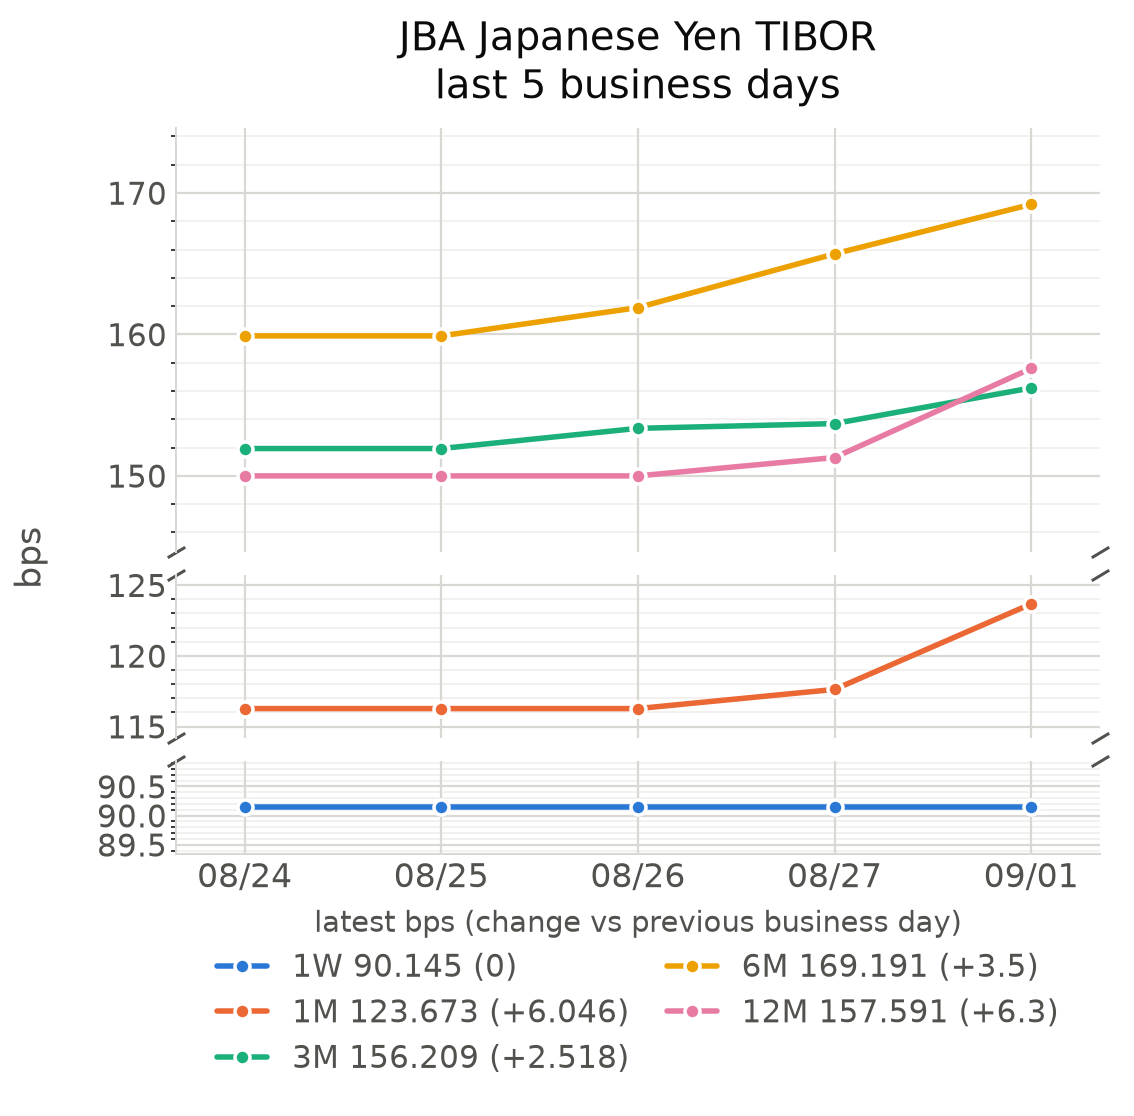
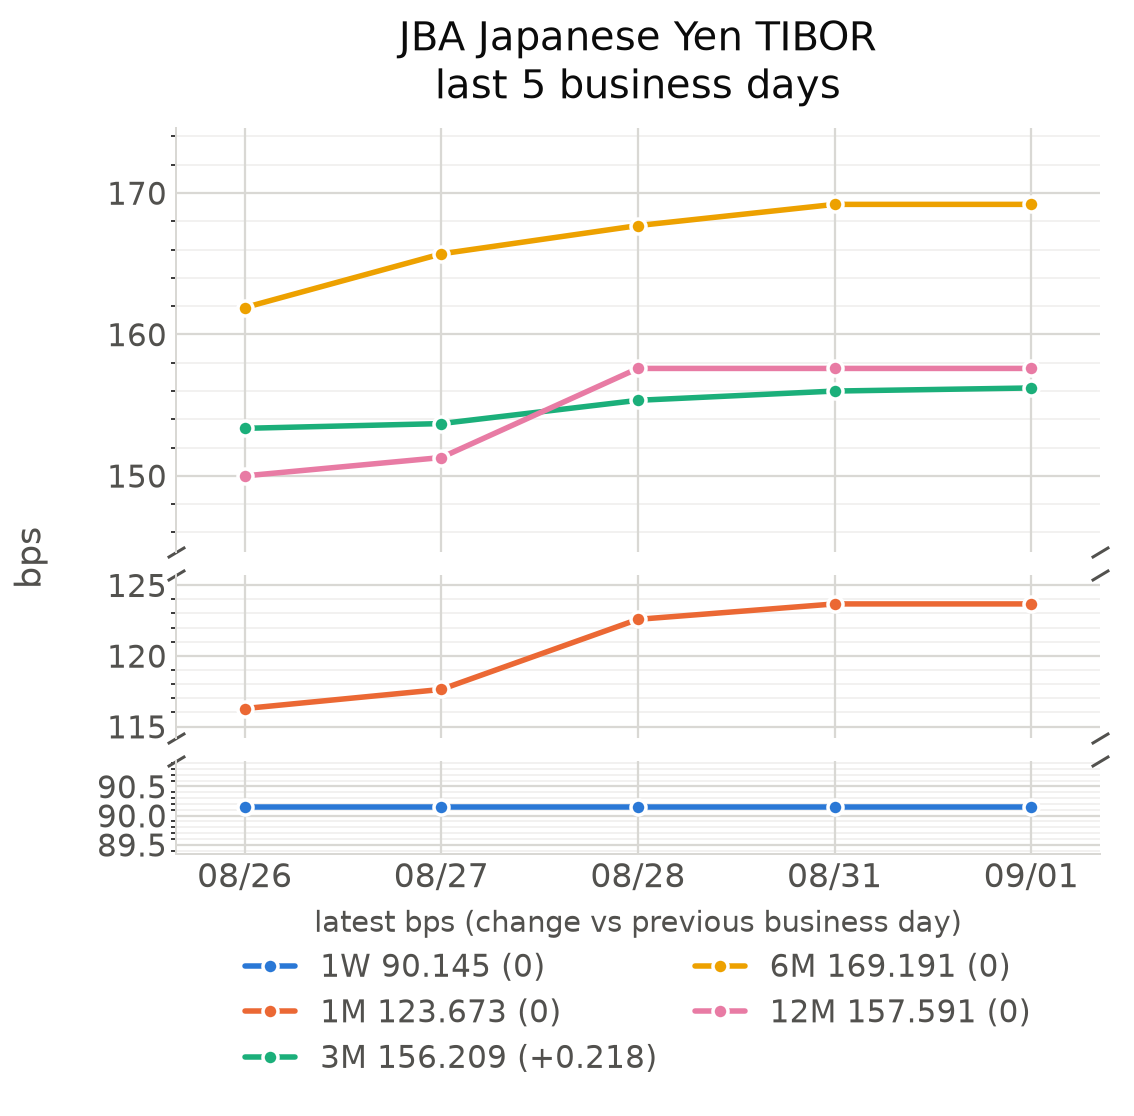
Restore lost 08/28+08/31 history; back-fill from previous month's PDF; fail the run if history shrinks

diff --git a/tibor_bot.py b/tibor_bot.py
@@ -82,6 +82,38 @@ def find_pdf_url() -> str:
     return urljoin(RATE_PAGE, m.group(1))
 
 
+def probe_pdf_url(day: dt.date):
+    """URL of that day's PDF if it exists, else None. Tries both the current
+    root location and the legacy /rate/pdf/ one, since JBA has used each."""
+    for url in (f"{BASE}/JAPANESEYENTIBOR{day:%y%m%d}.pdf",
+                f"{BASE}/rate/pdf/JAPANESEYENTIBOR{day:%y%m%d}.pdf"):
+        try:
+            if requests.head(url, headers=UA, timeout=20,
+                             allow_redirects=True).status_code == 200:
+                return url
+        except requests.RequestException:
+            pass
+    return None
+
+
+def previous_month_pdf_url(ref: dt.date):
+    """The previous month's FINAL daily PDF, found by walking back from the last
+    day of that month until one exists (so weekends/holidays are skipped).
+
+    Each PDF only covers its own month, so on the first days of a month the
+    current file cannot fill a 5-day window — and if the history file is ever
+    lost or rolled back, nothing else could rebuild the tail. This is the
+    self-heal: one extra fetch, only when the current month is still short.
+    """
+    day = ref.replace(day=1) - dt.timedelta(days=1)
+    for _ in range(10):
+        url = probe_pdf_url(day)
+        if url:
+            return url
+        day -= dt.timedelta(days=1)
+    return None
+
+
 def download_pdf(url: str, dest: str) -> str:
     log(f"downloading {url}")
     r = requests.get(url, headers=UA, timeout=60)
@@ -531,6 +563,21 @@ def phase_prepare(always_post: bool, state_file: str) -> dict:
     rows = parse_pdf_rows(tmp)
     ref, vals = rows[0]
     ref_date = ref.strftime("%Y/%m/%d")
+
+    # A PDF covers only its own month, so early in a month it cannot fill the
+    # window on its own. Pull the previous month's final PDF as well — that also
+    # rebuilds the history file if it was ever truncated or rolled back.
+    if len(rows) < CHART_DAYS:
+        prev_url = previous_month_pdf_url(ref)
+        if prev_url:
+            prev_tmp = os.path.join(os.environ.get("RUNNER_TEMP", "."),
+                                    "tibor_prev.pdf")
+            download_pdf(prev_url, prev_tmp)
+            prev_rows = parse_pdf_rows(prev_tmp)
+            log(f"back-filled {len(prev_rows)} rows from the previous month")
+            rows = rows + prev_rows
+        else:
+            log("WARNING: previous month's PDF not found; window may be short.")
     rates = [(_pretty_tenor(t), v) for t, v in vals]
     log(f"reference date: {ref_date}  ({len(rows)} rows in this PDF)")
     for label, val in rates:
